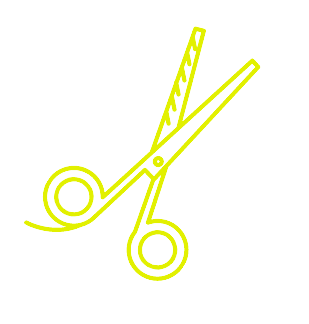
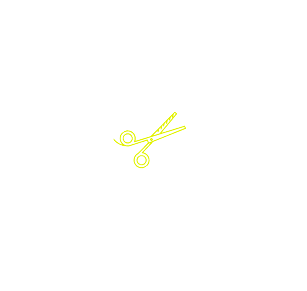
finished designing play page

Changed region(s): [[0.0586, 0.0619, 0.8502, 0.866], [0.6156, 0.4021, 0.645, 0.433]]

diff --git a/style.css b/style.css
@@ -69,33 +69,51 @@ body.play {
 
 .counter {
   /* General styles for the compuer's choice. Size, background color etc. Applies to any of the choices */
+
 }
 
 .rock {
   /* If your image for the user and computer choice is the same rock then you can just use .rock and the image will show up both places */
   /* Use background-image */
   background-image: url(pics/rock.png);
-  height: 100;
-  width: 100;
+  height: 320;
+  width: 300;
+  background-color: transparent;
 }
 
 /* If you have a different image for the computer then use these  */
-.counter.rock {
+.paper {
   /* When the computer chooses rock add the image */
+  background-image: url(pics/paper.png);
+  height: 320;
+  width: 460;
+  background-color: transparent;
 }
 
-.counter.paper {
+.scissors {
   /* When the computer chooses paper add the image */
+  background-image: url(pics/scissors.png);
+  height: 300;
+  width: 300;
+  background-color: transparent;
+}
+
+.play {
+  color: rgb(255,255,0,0.8);
+}
+
+.player {
+  color: rgb(255,255,0,0.8);
 }
 
 .scoreboard {
   /* The overall scoreboard */
   box-sizing: border-box;
   height: 15%;
-  width: 30%;
+  width: 25%;
   border: 1px solid rgb(255,255,0,0.8);
-  margin-left: 800;
-  margin-top: -150;
+  margin-left: 950;
+  margin-top: -100;
   color: rgb(255,255,0,0.8);
   font-size: 30px;
 }
